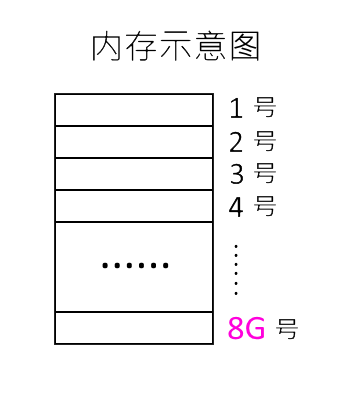
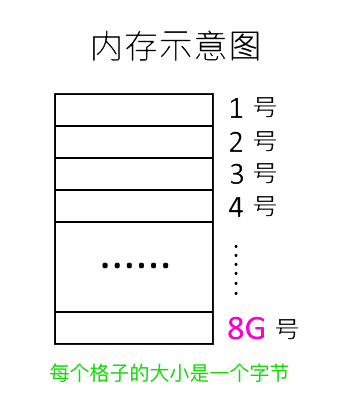
加上内存状态图

Changed region(s): [[0.1462, 0.916, 0.848, 0.9771], [0.6725, 0.7939, 0.731, 0.855]]

diff --git a/lessons/part1/2.md b/lessons/part1/2.md
@@ -7,34 +7,54 @@
 2. 计算机的工作就是处理数据。硬盘保存数据，显示器显示数据，键盘用来录入数据，网卡传输数据，CPU处理数据。键盘是输入数据的设备所以叫输入设备，显示器是输出数据的设备叫输出设备。除了CPU和内存其它设备都属于输入输出设备（I/O设备，I代表input，O代表output）
 
 3. 键盘是输入设备，输入到哪里呢？显示器是输出设备，从哪里输出呢？CPU处理哪里的数据呢？答案是内存。
-
+![计算机结构图](https://github.com/tongzhg/Python/blob/master/images/Structure.jpg)
 如上图，硬盘、网卡、键盘的数据都必须进入到内存中，CPU才能处理到。内存是一个中枢节点。
 
 4. 理解内存是学习编程最关键的，所以下面就介绍一下内存：
 ![内存示意图](https://github.com/tongzhg/Python/blob/master/images/Memory.jpg)
-上图是内存示意图，硬盘中的数据只有进入到内存，CPU才能处理；处理的结果也必须放到内存中，显示器才能显示处理后的结果
+如上图，内存为了计算而临时存储数据的，我们通常说4G内存8G内存指的是内存的容量是4G**B**或8G**B**。这里的**B**值得是字节（Byte），可以把一个字节看成一个容器，能存0-255之间的数，更大的数就需要多个字节。也可以把一个字节看成一个房间，内存就是有很多个房间组成的旅馆，每个字节都被编上了号，又叫地址（就是房间的门牌号，所以叫地址也挺贴切）
 
 
 #### 下面看一个例子，看看计算机到底是怎么工作的：
 
-假设你是一个体育老师🧘，你的硬盘里有一个文件，里面是你的几个学生的数学考试成绩（比如说：30，40 20），你有一个软件可以算出**平均成绩**。那么这个软件（或者说计算机）是怎样实现的呢？大致是这样的：
+假设你是一个体育老师🧘，你的E盘里有一个文件，里面是你的几个学生的数学考试成绩（比如说：30，40 20），你有一个软件可以算出**平均成绩**。那么这个软件（或者说计算机）是怎样实现的呢？大致是这样的：
 
-**第一步：CPU在内存中找到一个空闲的地方**。可以把内存看成很多很多容器组成的，每个容器都能存放一些数据，我们经常说4G内存、8G内存实际是就是说这个内存可以存储8G个字节的数据，字节是多大呢？不重要，你只要知道一首MP3大概5M个字节（1G = 1024M）。容器都被编上了号，1号，2号，3号..... 8G号，术语叫地址（因为每个容器的号可以看成是门牌号，所以叫地址也很贴切）
+**第一步：CPU在内存中找到一个空闲区域**。
+![找到一块空闲区域](https://github.com/tongzhg/Python/blob/master/images/Memory1.jpg)
+如上图，找到了一个空闲区域：1000号之前都被占用了
 
-**第二步：CPU把这个空闲内存的地址和哪一个文件告诉硬盘**。比如空闲内存地址是120000号），文件是 E:\数学成绩.txt。硬盘就会把这个文件的内容放到内存120000号开始的地方（挨着放3个容器中：120000号，120001，120002），其实硬盘和硬盘驱动器共同把文件放到内从中的，硬盘驱动器是一个软件
+**第二步：CPU把这个空闲内存的地址和哪一个文件告诉硬盘**。
+也就是1000号地址和文件路径(E:\数学成绩.txt)告诉硬盘。硬盘就会把这个文件的内容放到1000号处（因为一个房间放不下，所以数据被放到了1000号、1001号、1002号）。是的，硬盘可以把数据放到内存中（当然还有一些软件配合），如下图：
+![读入数据]](https://github.com/tongzhg/Python/blob/master/images/Memory2.jpg)
 
-**第三步：CPU再找一块空闲的内存，把120000号开始的数据加一起放到这个新找到的空闲内存中**。比如说新找到的空闲内存地址是200000号，把加好的结果放到里面（由CPU完成），这时应该是90（更详细的过程是：把30放到里面，然后变成70，最后变成90）
+**第三步：CPU再找一块空闲的内存，把成绩的总和放到新的空闲内存中**。
+1003号就空闲，于是：
+1. CPU把0放到1003号中；
+2. CPU用**1000**号中的数据加上1003号中的数据，把结果（也就是30，30 + 0 = 30）放到1003号中；
+3. CPU用**1001**号中的数据加上1003号中的数据，把结果（也就是70，40 + 30 = 70）放到1003号中；
+4. CPU用**1002**号中的数据加上1003号中的数据，把结果（也就是90，20 + 70 = 90）放到1003号中；
+如下图：
+![求和](https://github.com/tongzhg/Python/blob/master/images/Memory3.jpg)
 
-**第四步：CPU再找一块空闲内存，把成绩个数3放到里面**。比如说新找到的空闲内存地址是300000号，那么CPU用200000号里的数据（也就是90）除以300000号里的数据（也即是3），得到的结果可以放到200000号里或者300000号里，或者再找一块空闲内存。假设放到了300000号里。
+**第四步：CPU再找一块空闲的内存，把成绩的个数（也即是3）放到里面**。
+1004号就空闲，于是把3放到1004中，如下图：
+![个数]](https://github.com/tongzhg/Python/blob/master/images/Memory4.jpg)
 
-**第五步：CPU命令显示器：你把300000号内存里的东西显示出来**。于是我们就看到了最终的结果：30
+**第五步：CPU用1003号中的数据除以1004号中的数据，把结果放到1003号（或者1004、1000都可以）**
+如下图：
+![最终结果](https://github.com/tongzhg/Python/blob/master/images/Memory5.jpg)
 
-从上面可以看到，整个过程**也**是，CPU把数据调到内存中，然后在内存中一顿操作猛如虎，最后让显示器显示它的计算结果。
+**第六步：CPU命令显示器显示1003号内存中的数据**
+于是我们就看到了平均成绩：30
 
-因为所有对数据的处理，都是CPU对内存的操作，其它的设备要么是把数据放到内存中（比如键盘⌨、鼠标🖱等）要么把内存中的数据放到其它设备中（比如打印机🖨、显示器🖥、扬声器🔊），硬盘💽既是输入设备又是输出设备，因为既可以把文件读取到内存中，又可以把输入存到文件里。
+整个过程是：
+1. CPU命令硬盘数据调到内存中
+2. 然后CPU在内存中一顿操作猛如虎
+3. 最后CPU让显示器显示内存中的结算结果
 
-这就是为什么本章的标题是：CPU + 内存 + 输入输出设备，因为这是计算机的结构和工作原理（也就是如何处理数据的）
+从上面的例子可以看出，硬盘只是为了存储数据，显示器只不过是显示数据，而对内存中的数据的操作才是整个程序的核心工作，我们写的程序很大一部分工作就是告诉CPU如何处理内存中的数据。
 
-（本章完）
+本章是这个教程中比较难的一章。为了有画面感，我再打一个比方：
 
-忘了说，本章是这个教程中最难的一章。如果你没理解，我再打一个比方：CPU就是厨师，内存就是一个大砧板，输入输出设备包括：菜篮子、面袋子、作料盒、锅、烤箱。厨师做面点的时候要把面从面袋子里倒到砧板上然后在砧板上和面，把面做成各种小动物的形状摆在砧板上，至于如何和面并做成小动物，按照菜谱做。最后把面点放到烤箱里。做菜也必须把菜篮子里的干净的菜放到砧板上然后才能切，最后把切好的菜放到锅里煮。
+CPU就是厨师，内存就是一个大砧板，输入输出设备包括：菜篮子、面袋子、水壶、作料盒、锅、烤箱。厨师做面点的时候要把面从面袋子里倒到砧板上然后把水倒到面上，再砧板上和面并做成点心状，最后把面点放到烤箱里，整个过程都按照菜谱做。如下图：
+![砧板](https://github.com/tongzhg/Python/blob/master/images/cook.jpg)
